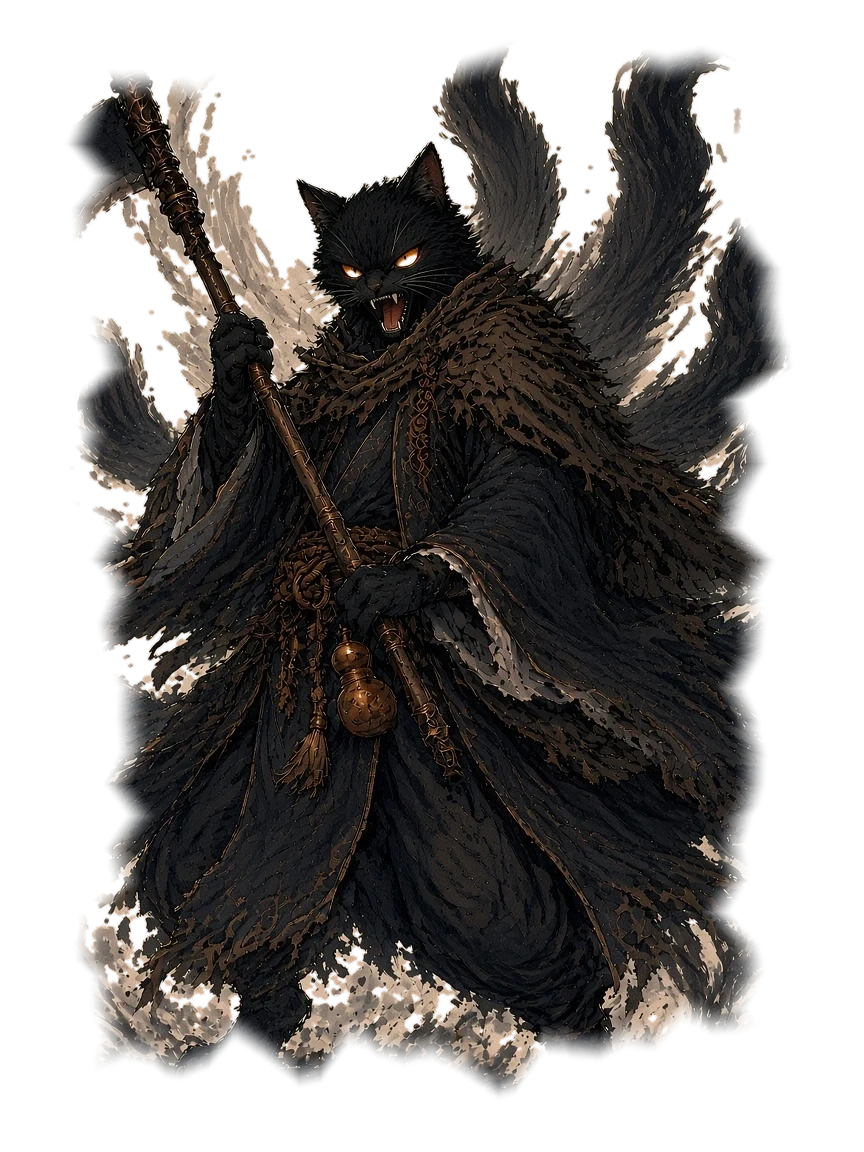
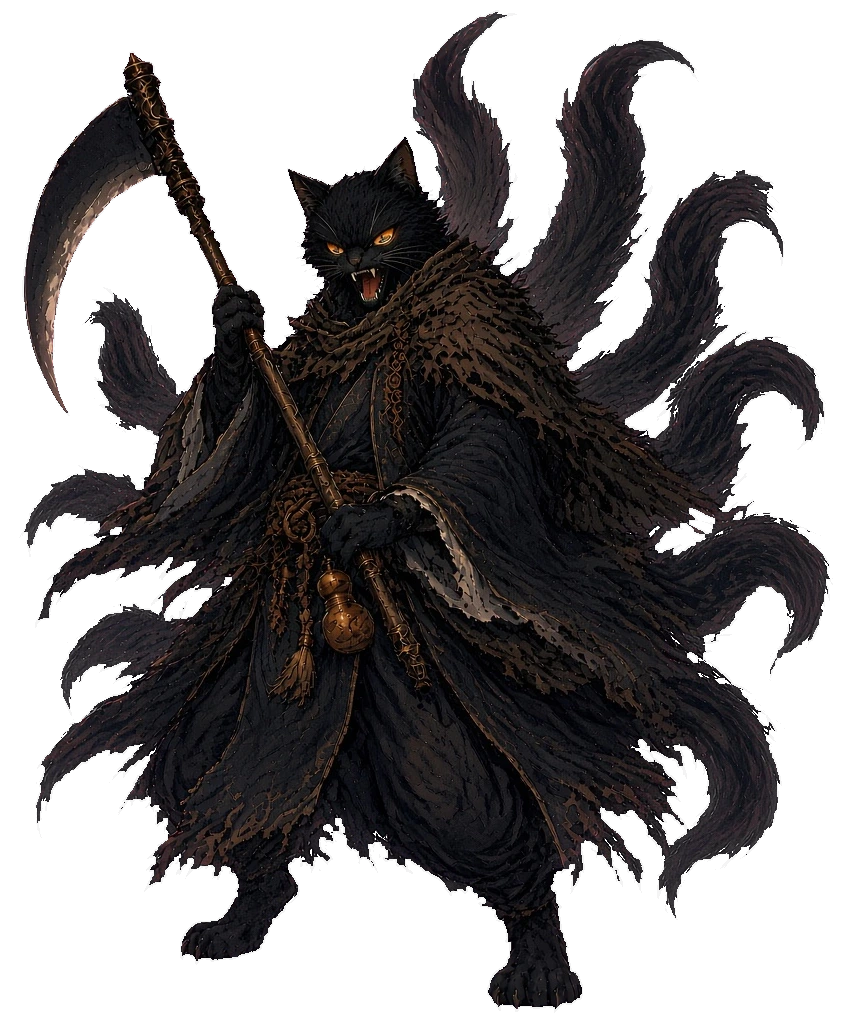
Replace the cropped demon cat with a full-body cutout.
The nine-tails form is regenerated inside the frame on a flat key color, then keyed to the fur and cloak so the silhouette is the cat rather than a broken rectangle. Damage numbers are drawn again above the sprite.

diff --git a/js/devil_kitty_ui.js b/js/devil_kitty_ui.js
@@ -964,8 +964,10 @@
     c.fillStyle = '#f6efe2';
     c.fillRect(0, 0, W, H);
     splatField(c, W, H, p);
+    var fim = img('formcut', art.formCut || 'form-cut.webp');
+    var aspect = fim && fim.naturalHeight ? fim.naturalWidth / fim.naturalHeight : 0.84;
     var cx = port ? W * 0.5 : W * 0.56;
-    var fitH = (W * (port ? 0.9 : 0.78)) / 0.75;
+    var fitH = (W * (port ? 0.9 : 0.76)) / aspect;
     var room = Math.min(H - (port ? 70 : 36), fitH);
     var foot = Math.min(H - 12, (port ? 58 : 16) + room);
     var ease = function (u) { return 1 - Math.pow(1 - Math.max(0, Math.min(1, u)), 3); };
@@ -1170,6 +1172,34 @@
       }
       if (cutIm) c.drawImage(cutIm, px, py, pw, ph);
       else blitCut(c, cutKey, cutFile, px + pw / 2, py + ph, ph);
+      var floats = [];
+      if (G.texts) {
+        for (di = 0; di < G.texts.length; di++) {
+          var ft = G.texts[di];
+          if (!ft || !ft.s) continue;
+          var fp = w2s(G, app, ft.x, ft.y);
+          var life = 1 - Math.pow((ft.t || 0) / (ft.max || 0.7), 3);
+          if (life <= 0.05) continue;
+          if (fp.x < -240 || fp.x > app.lw + 240 || fp.y < -80 || fp.y > app.lh + 80) continue;
+          floats.push({ x: fp.x - 46, y: fp.y - 18, w: 92, h: 36, p: fp, s: String(ft.s), size: ft.size || 16, life: life });
+          c.save();
+          c.globalAlpha = 1;
+          var labelS = String(ft.s);
+          var pxSize = Math.max(18, ft.size || 18);
+          c.font = 'bold ' + pxSize + 'px sans-serif';
+          var tw = c.measureText(labelS).width;
+          c.textAlign = 'center';
+          c.textBaseline = 'middle';
+          c.lineWidth = 4;
+          c.strokeStyle = '#fff6e4';
+          c.strokeText(labelS, fp.x, fp.y);
+          c.fillStyle = '#e23b2f';
+          c.fillText(labelS, fp.x, fp.y);
+          c.restore();
+          floats[floats.length - 1].w = Math.max(92, tw + 16);
+          floats[floats.length - 1].x = fp.x - (Math.max(92, tw + 16)) / 2;
+        }
+      }
       var label = run.unit.phase >= 2 ? API.HERO2 : API.HERO;
       var sizeN = 16, stepN = sizeN * 0.98, lh = label.length * stepN + 28;
       var station = null;
@@ -1184,6 +1214,7 @@
         if (r.y < 100 || r.y + r.h > app.lh - 64) return true;
         if (r.x < 2 || r.x > app.lw - 8) return true;
         if (overlap(r, station) || overlap(r, bossTag) || overlap(r, ban)) return true;
+        for (var fi = 0; fi < floats.length; fi++) if (overlap(r, floats[fi])) return true;
         return false;
       }
       if (boss) {
@@ -1191,10 +1222,10 @@
         bossTag = { x: bs.x - 170, y: bs.y - 30, w: 300, h: 64 };
       }
       var cands = [
-        { x: px - 26, y: py + 12 },
-        { x: px + pw + 16, y: py + 18 },
-        { x: px - 26, y: py + ph * 0.22 },
-        { x: px + pw + 16, y: py + ph * 0.22 }
+        { x: px - 28, y: py + ph * 0.08 },
+        { x: px + pw + 18, y: py + ph * 0.08 },
+        { x: px - 28, y: py + ph * 0.28 },
+        { x: px + pw + 18, y: py + ph * 0.28 }
       ];
       var spot = cands[0], ci;
       for (ci = 0; ci < cands.length; ci++) if (!blocked(cands[ci].x, cands[ci].y)) { spot = cands[ci]; break; }
